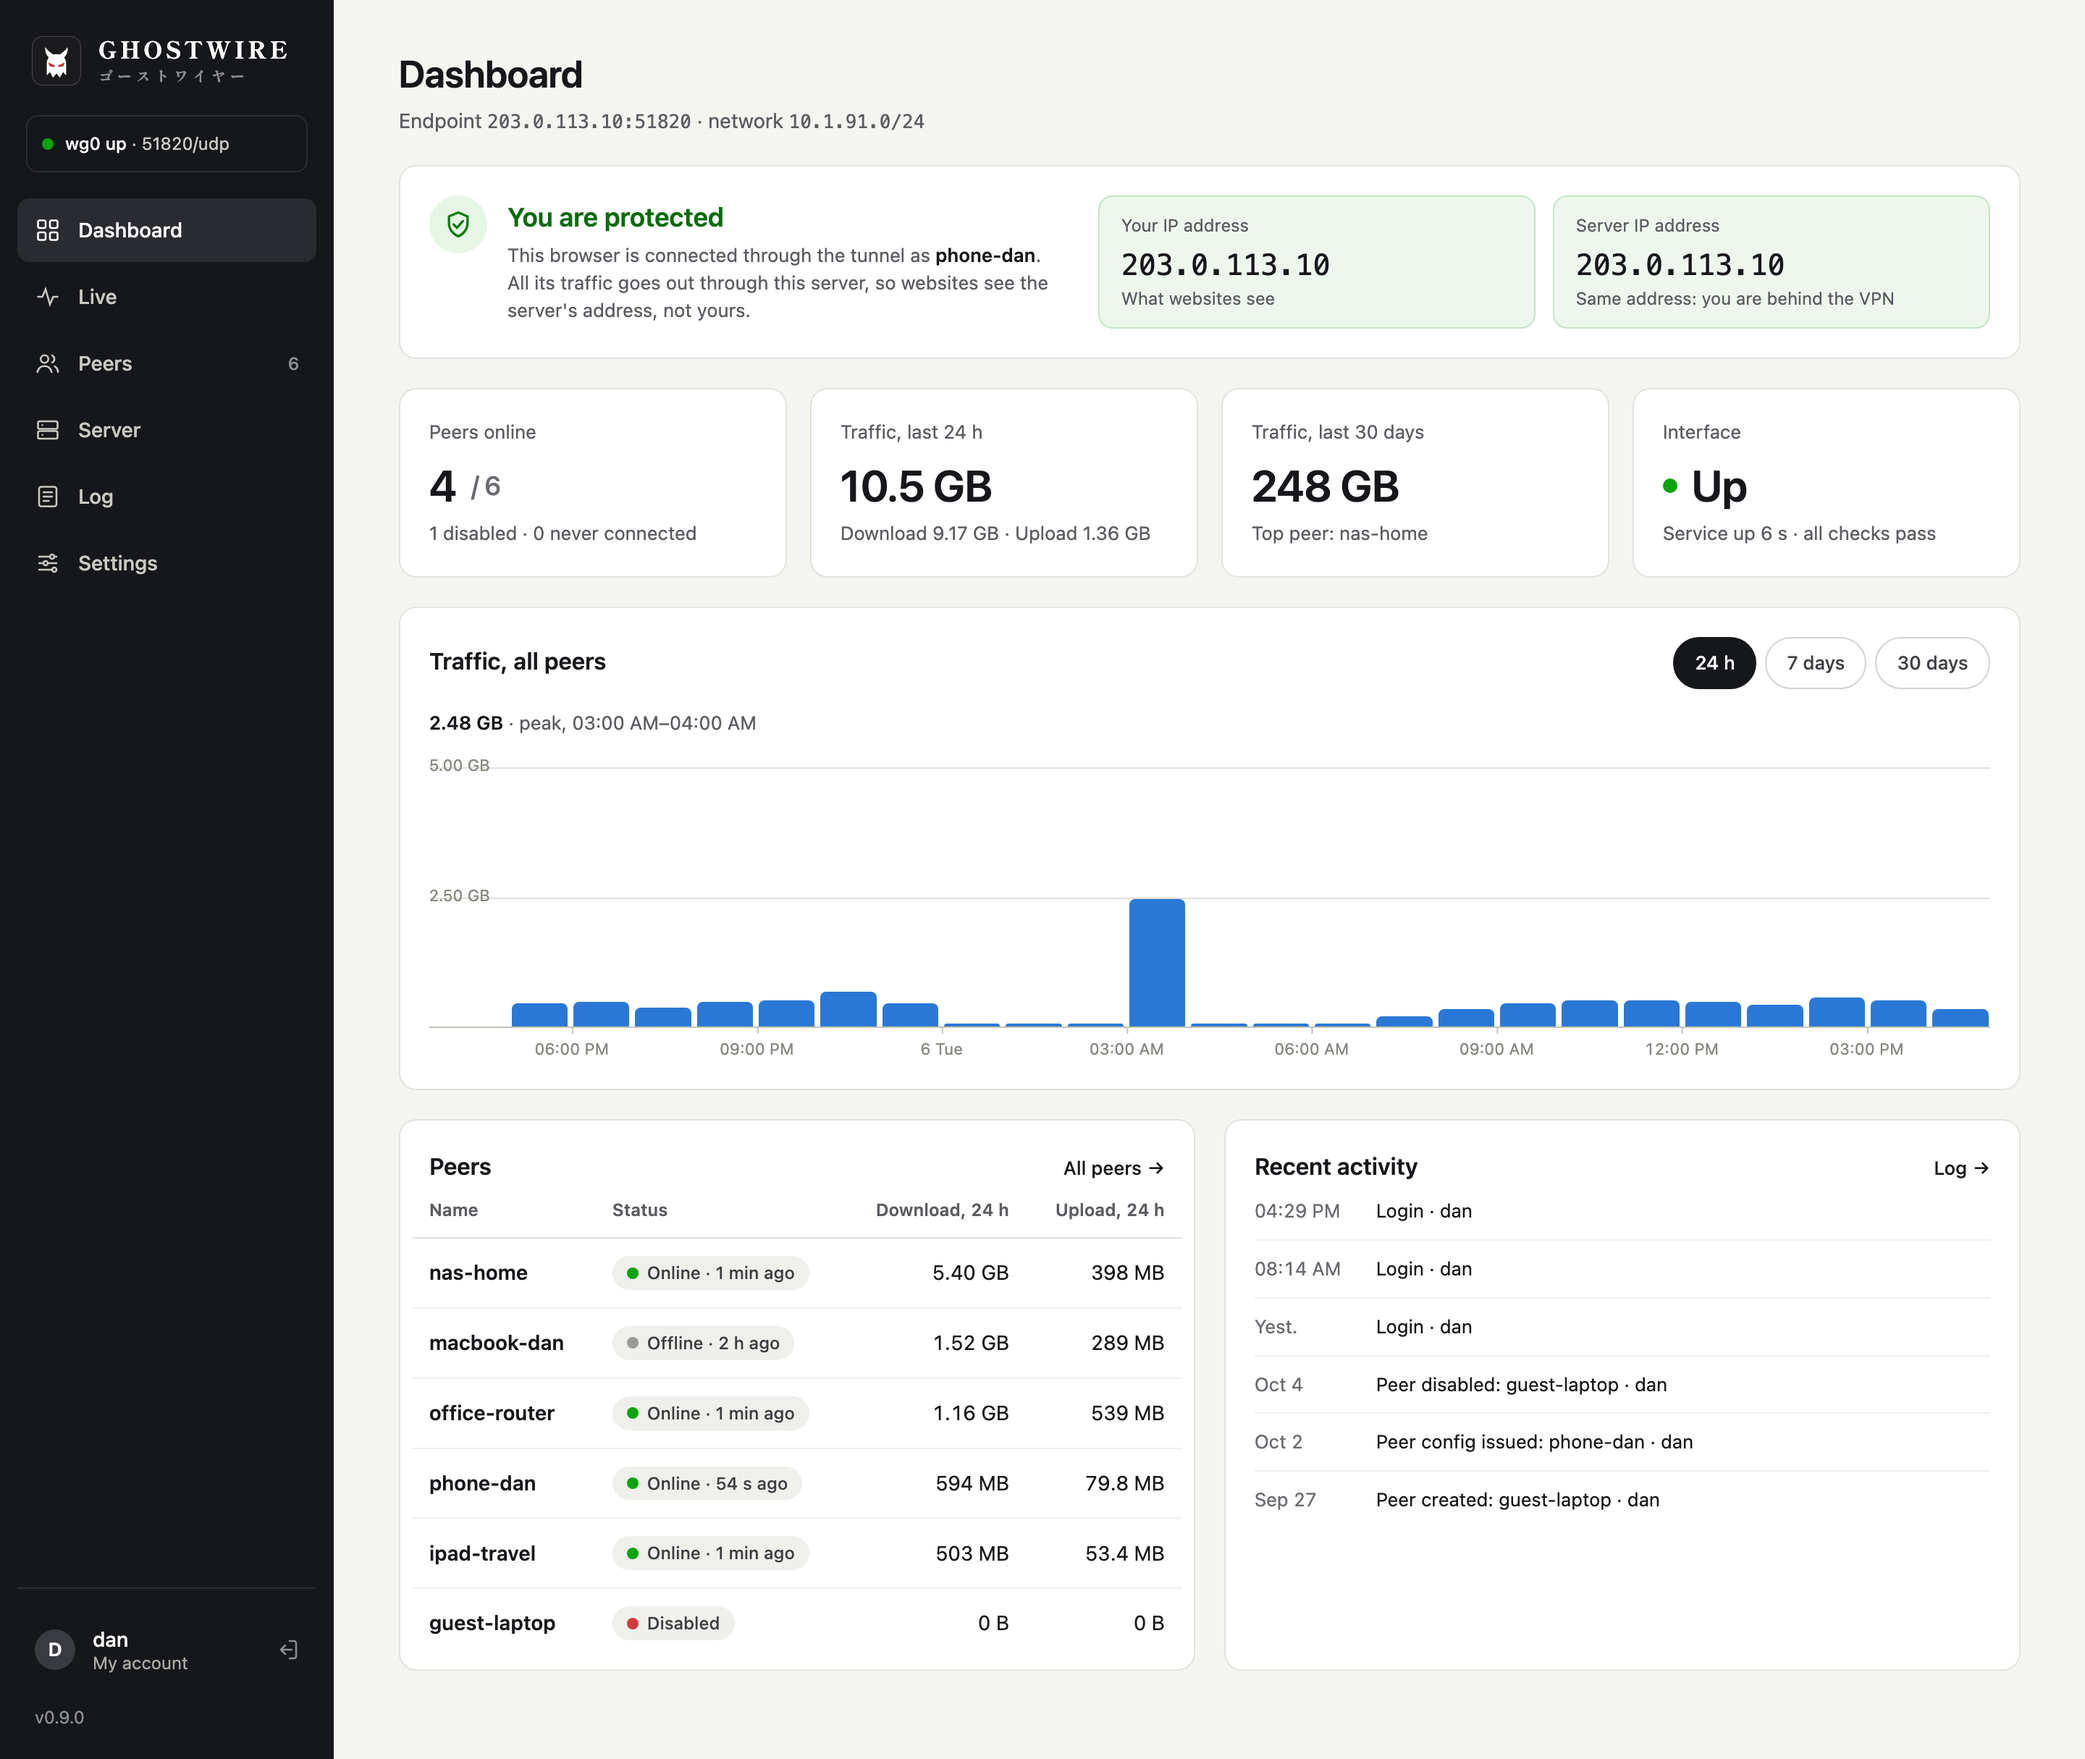
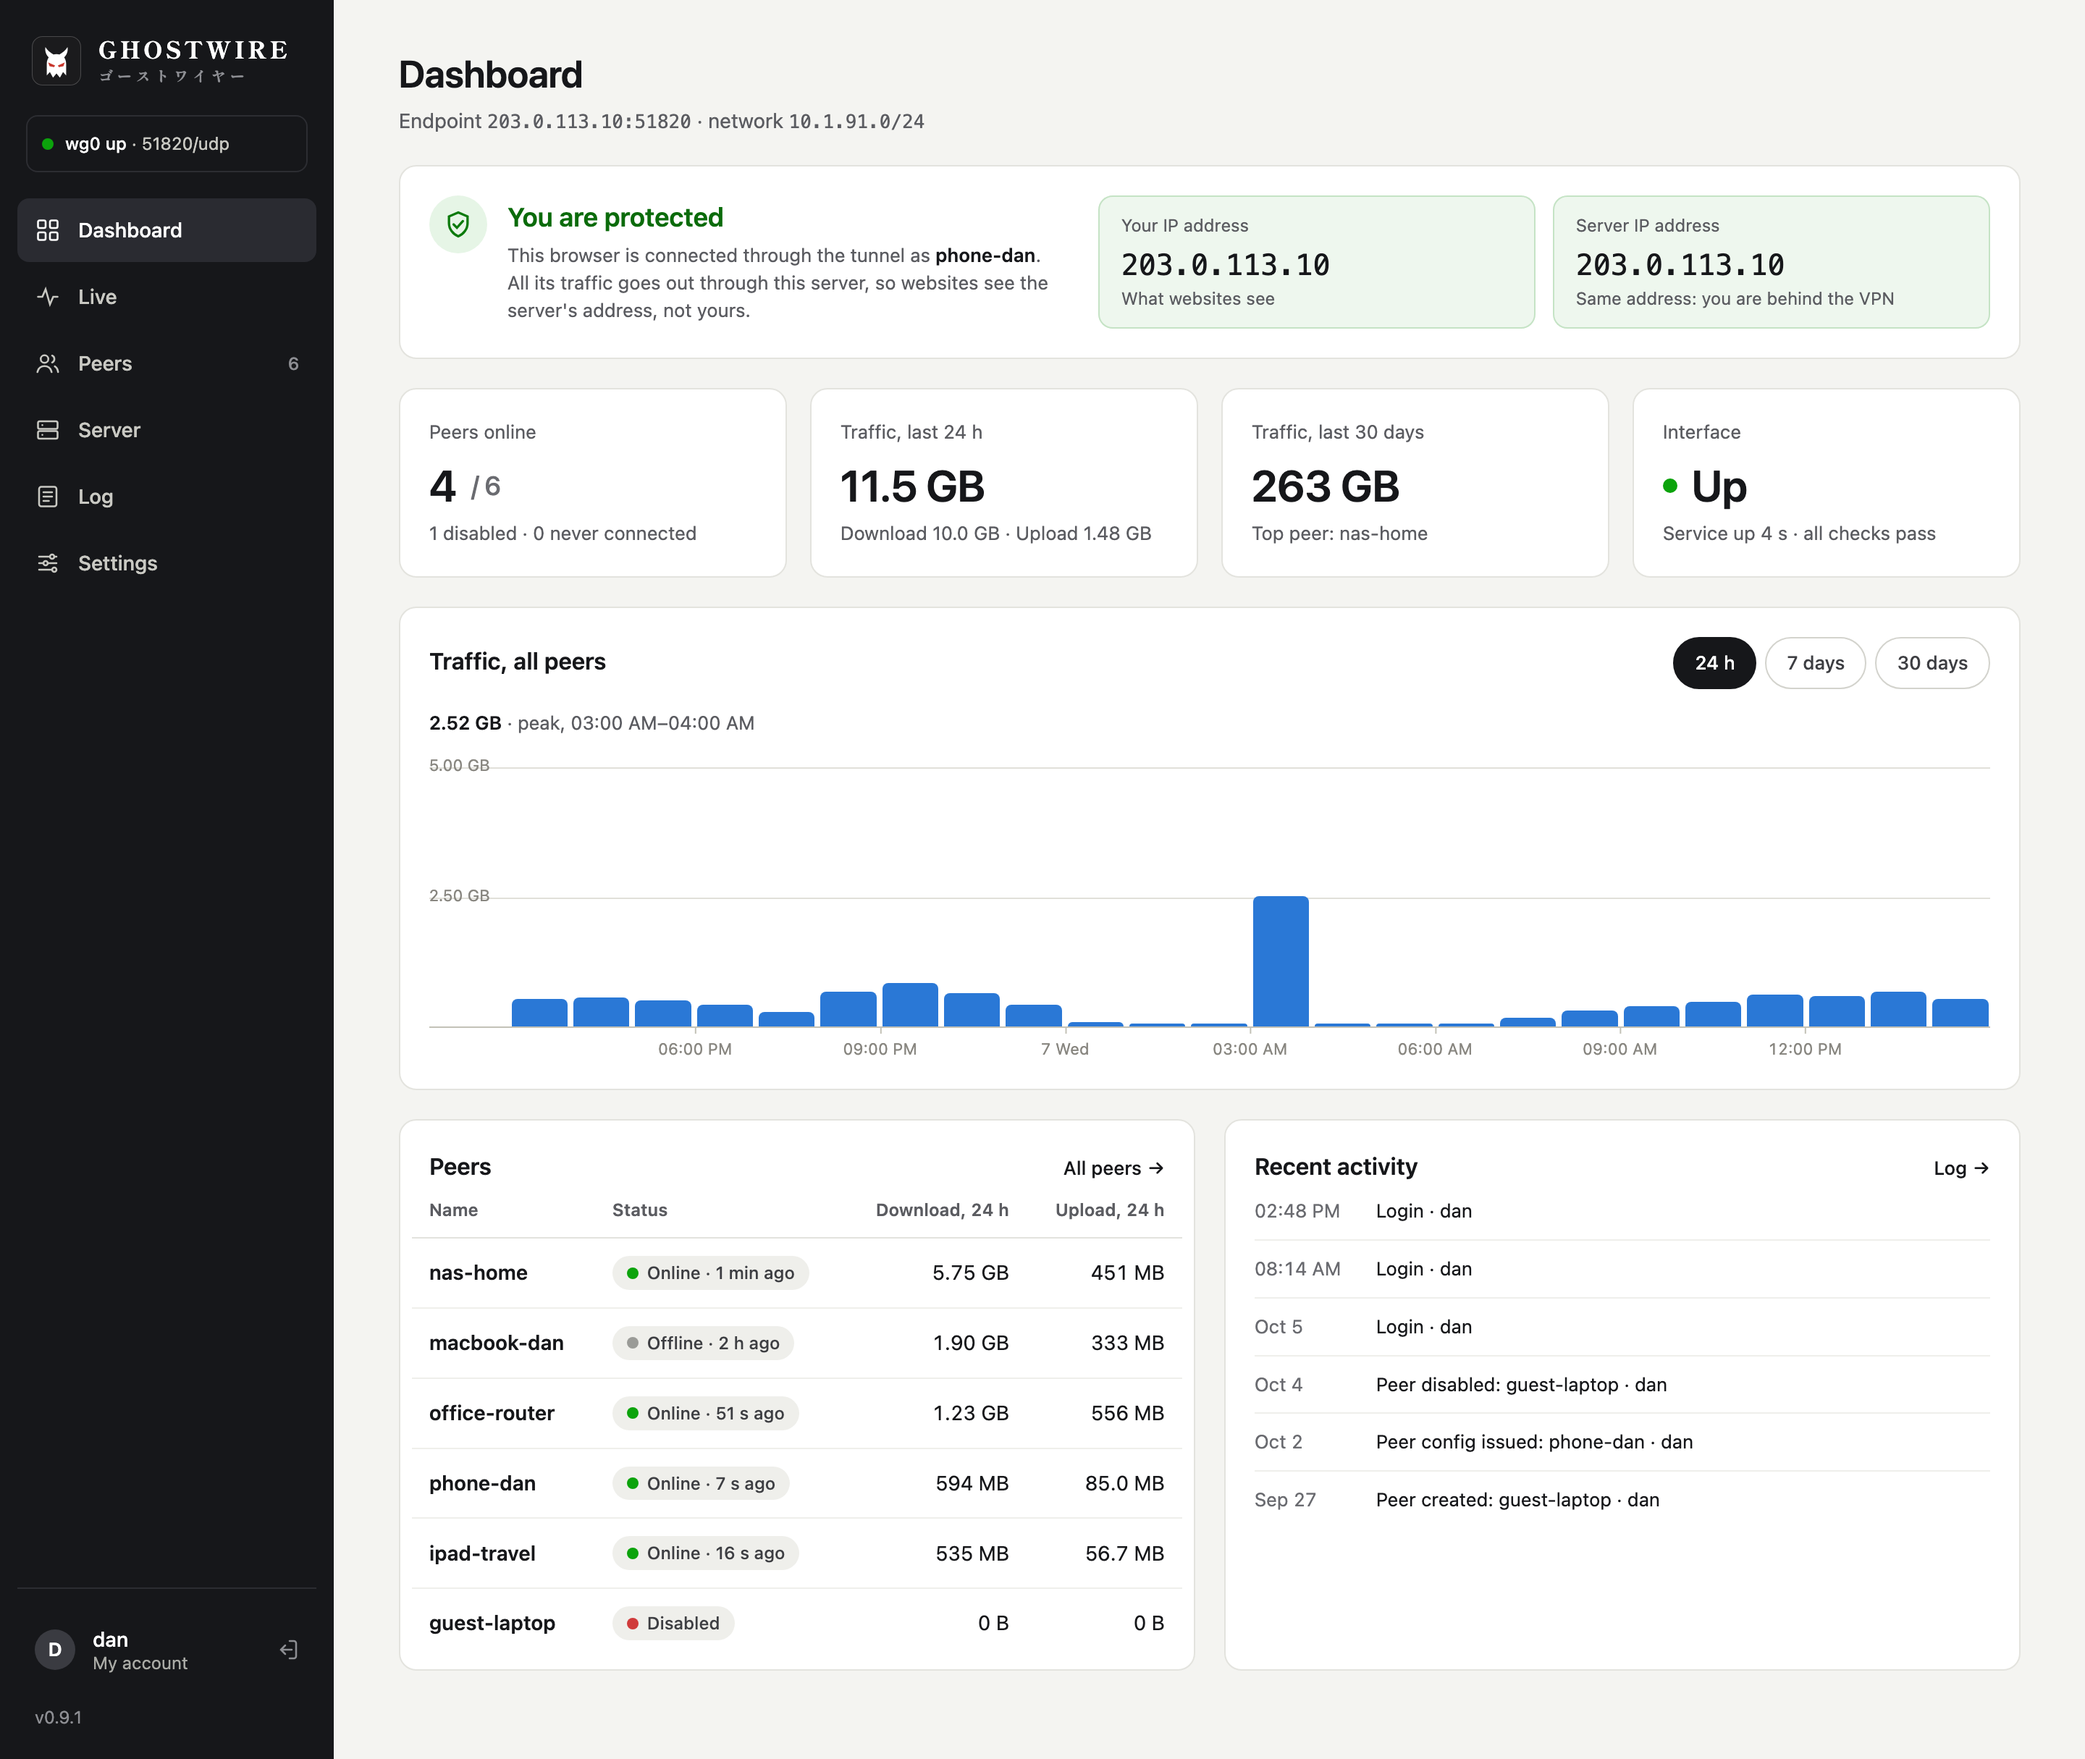
Dashboard screenshot from v0.9.1

diff --git a/index.html b/index.html
@@ -30,7 +30,7 @@
   "description": "Self-hosted WireGuard server manager in a single Go binary, with a web interface, a JSON API and an iPhone app.",
   "url": "https://ghostwi.re/",
   "image": "https://ghostwi.re/og.png?v=6e3ca8fac4",
-  "screenshot": "https://ghostwi.re/dashboard.png?v=1c43cb4828",
+  "screenshot": "https://ghostwi.re/dashboard.png?v=9894ac8c0e",
   "applicationCategory": "NetworkingApplication",
   "operatingSystem": "Linux",
   "license": "https://opensource.org/licenses/MIT",
@@ -110,7 +110,7 @@
 
 <div class="wrap shot">
   <figure>
-    <img src="dashboard.png?v=1c43cb4828" width="2880" height="2430" decoding="async" alt="The GHOSTWIRE dashboard: you are protected, four of six peers online, traffic of the last 24 hours as a bar chart, the peer list and recent activity">
+    <img src="dashboard.png?v=9894ac8c0e" width="2880" height="2430" decoding="async" alt="The GHOSTWIRE dashboard: you are protected, four of six peers online, traffic of the last 24 hours as a bar chart, the peer list and recent activity">
   </figure>
 </div>
 
